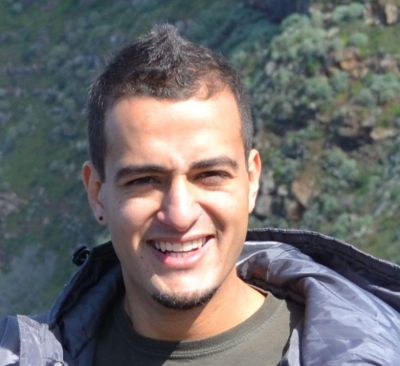
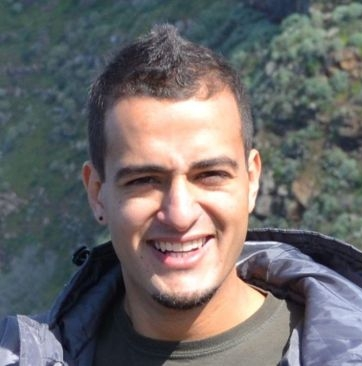
change sidebar image

diff --git a/_includes/sidebar.html b/_includes/sidebar.html
@@ -1,7 +1,7 @@
 <div class="sidebar">
   <div class="container sidebar-sticky">
   	<img class="perfil-picture" src="http://maikotrindade.github.io/public/img/maikotrindade.jpg" 
-  	height="220" width="260" alt="Maiko Trindade"/>
+  	height="180" width="180" alt="Maiko Trindade"/>
     <div class="sidebar-about">
       <h1>{{ site.title }}</h1>
       <p class="lead">{{ site.description }}</p>
